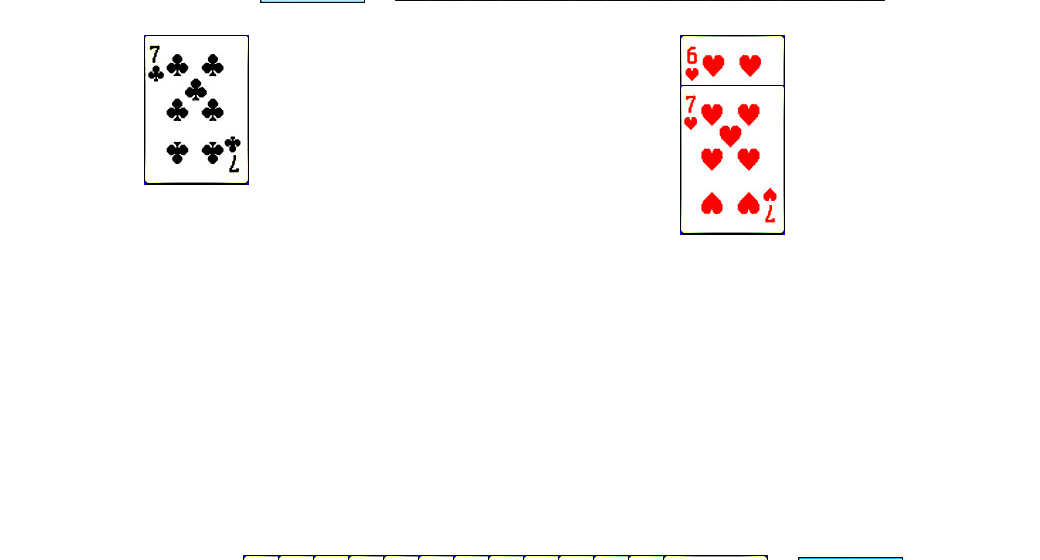
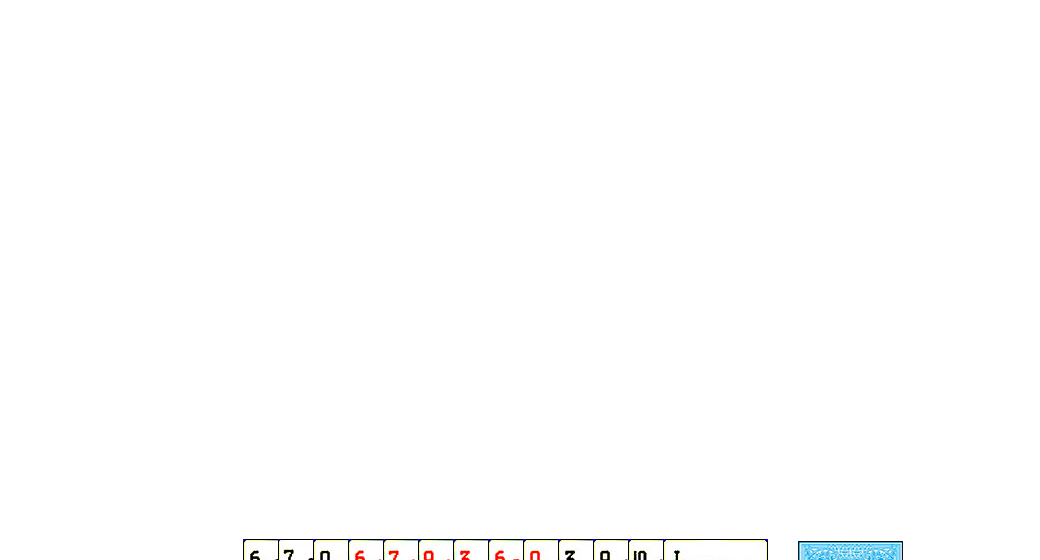
dock locate

diff --git a/poker_game.py b/poker_game.py
@@ -4,6 +4,7 @@ from time import sleep
 from PIL import Image
 
 path = "C:/Users/mickey/sram_transformer/result.png"
+path2 = "C:/Users/mickey/sram_transformer/result2.png"
 # Open a web browser using Selenium
 driver = webdriver.Edge()
 driver.get('https://laijunbin.github.io/sevens/v1/index.html')
@@ -13,8 +14,11 @@ sleep(5)
 # Use pyautogui to interact with elements
 # For example, to click a button located at x=100, y=200
 region = (360,310,1040,560)
-screenshot = pyautogui.screenshot(region=region)
-screenshot.save(path)
-im = Image.open(path)
-im.show(path)
+region2 = (500,800,800,250)
+card_pool = pyautogui.screenshot(region=region)
+card_dock = pyautogui.screenshot(region=region2)
+card_pool.save(path)
+card_dock.save(path2)
+im = Image.open(path2)
+im.show(path2)
 sleep(100)
